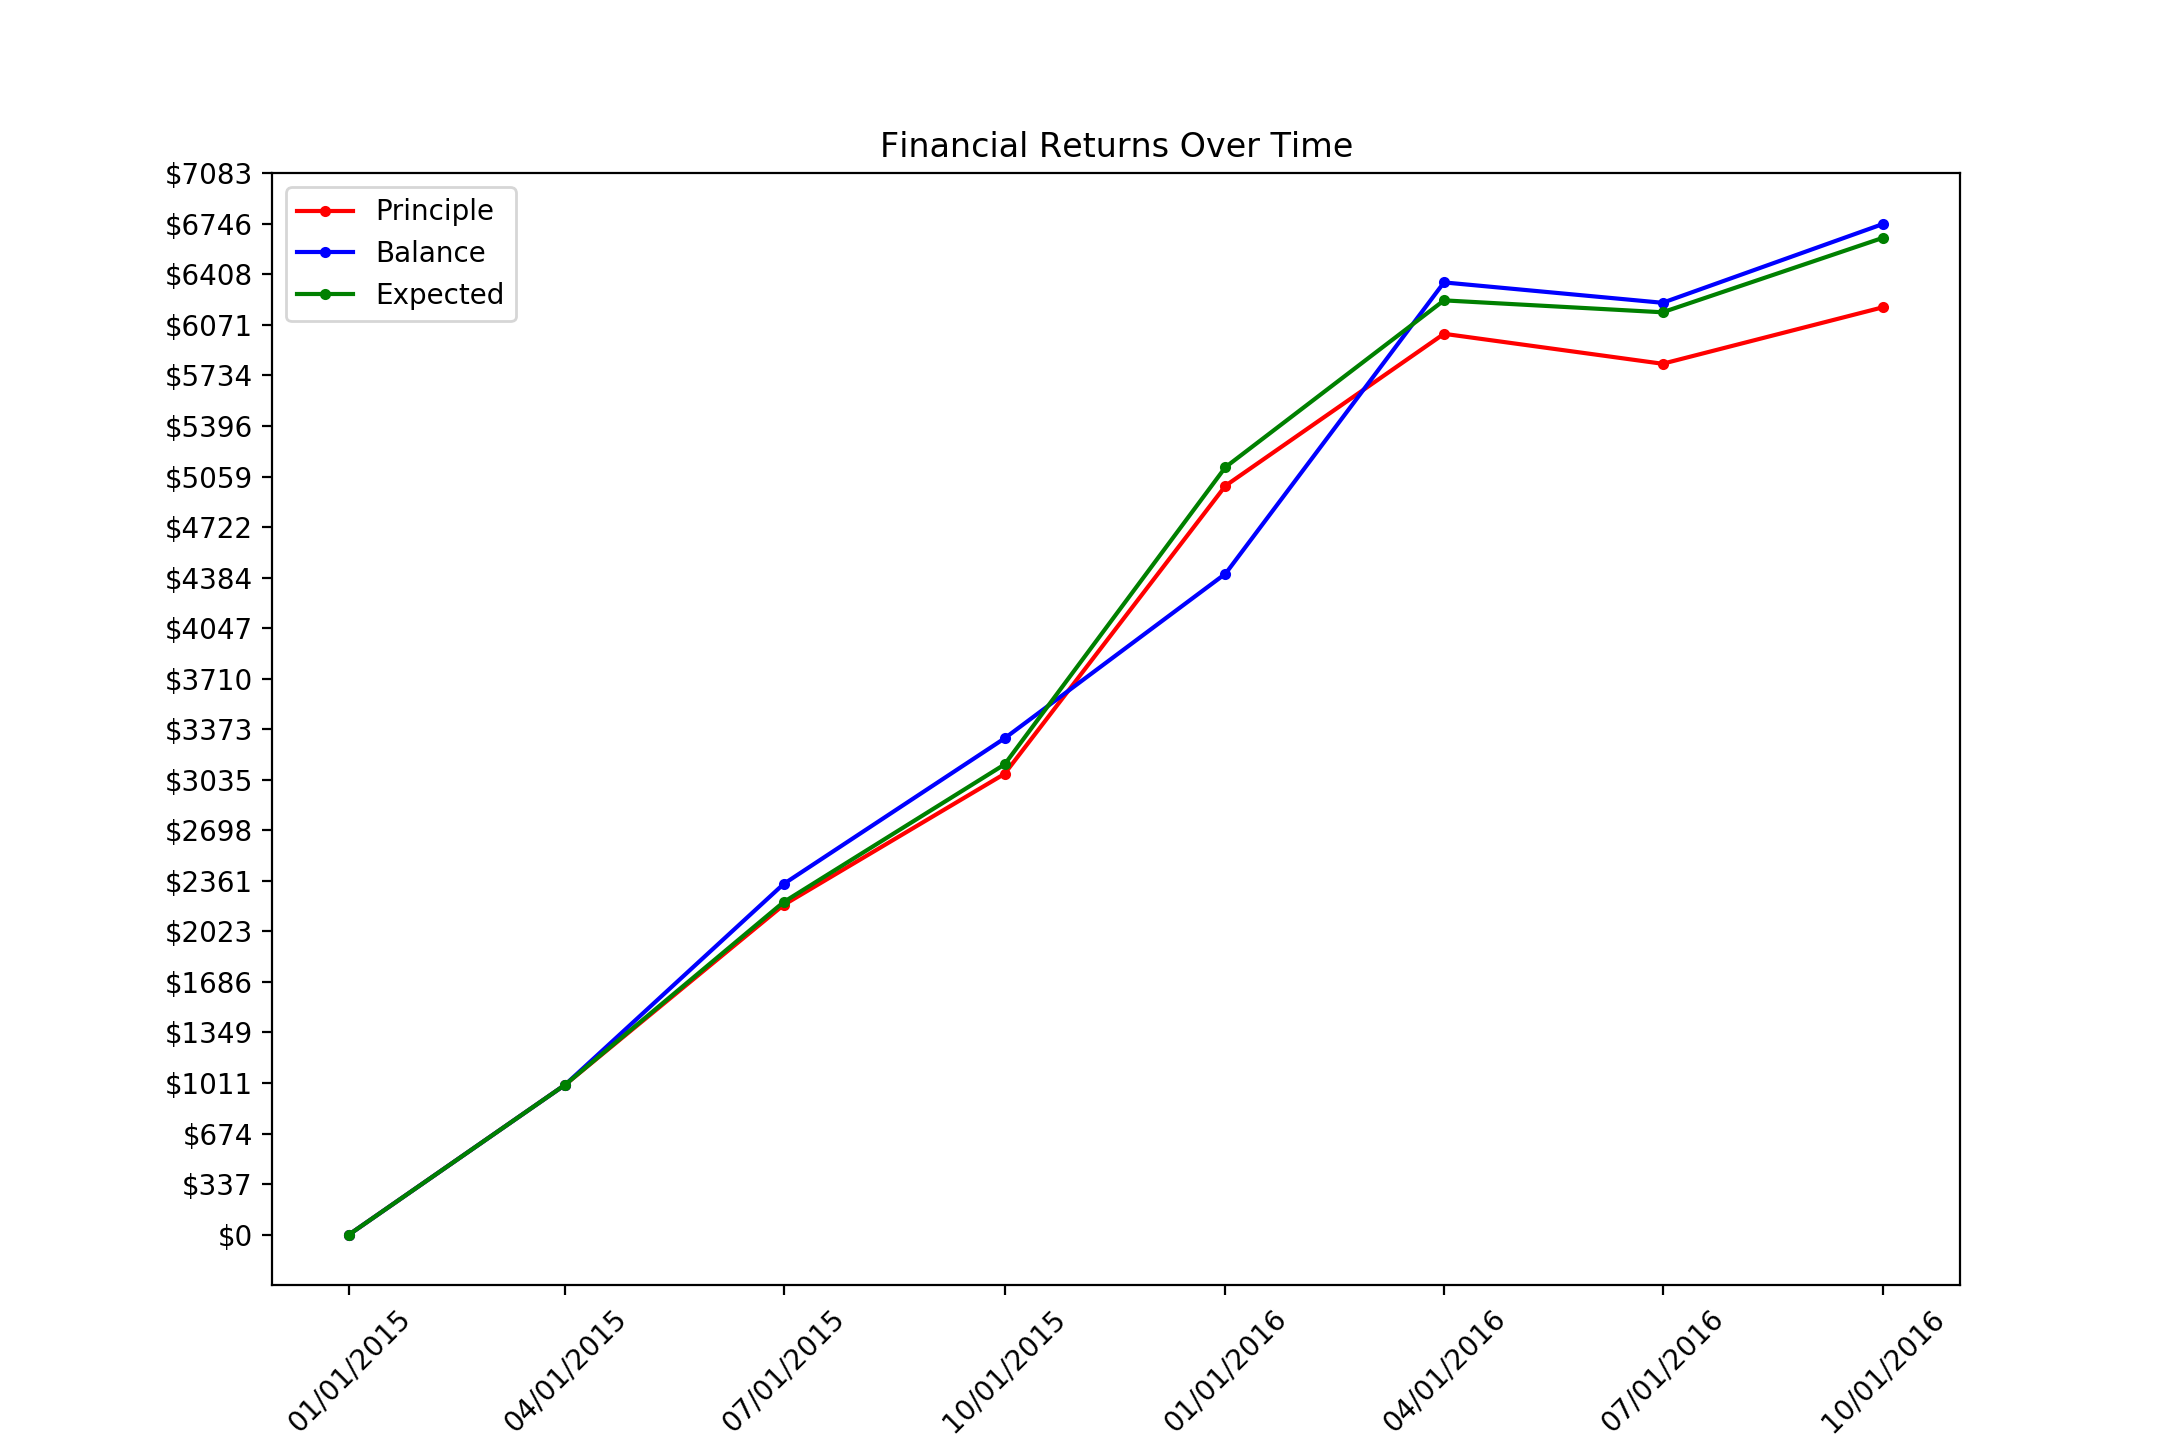
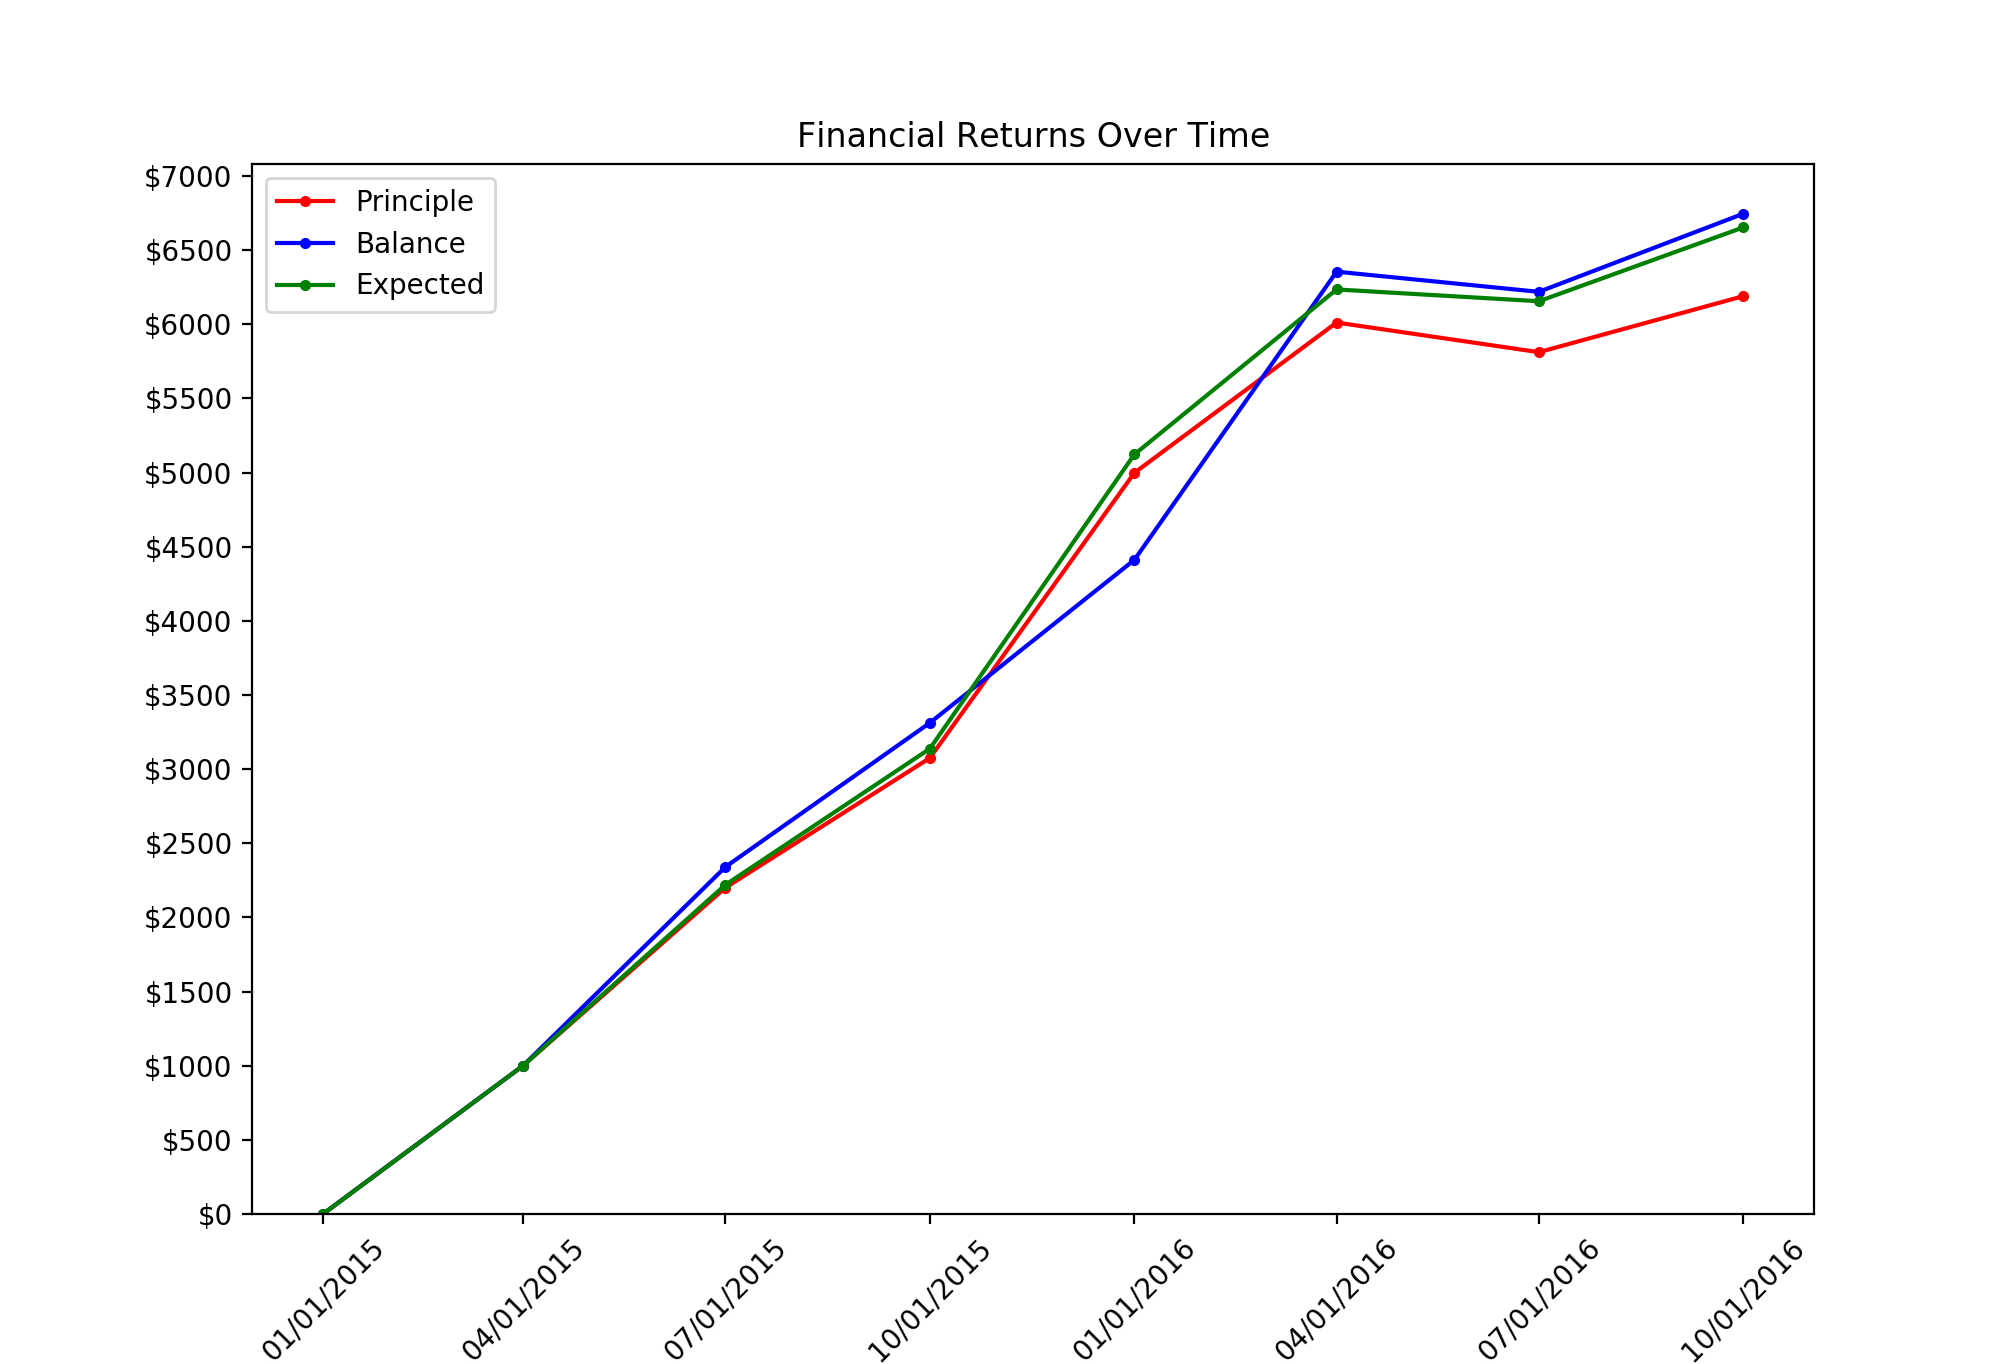
Make y axis use nice, round numbers (factors of 10)

diff --git a/returnsPlot.py b/returnsPlot.py
@@ -6,6 +6,7 @@ import matplotlib.dates as mdates
 
 from csvParsers import read_source_file
 from dateManipulation import *
+from utils import get_factor_of_ten
 
 def main(source_file):
     print("Reading source data...")
@@ -82,10 +83,15 @@ def createPlot(dates, ySeries, seriesNames, colors):
     plt.xticks(xTicks, rotation=45)
 
     y_max = max([value for series in ySeries for value in series])
-    y_step = y_max / 20
-    y_max_rounded = (int(y_max / y_step) + 2) * y_step
-    y_range = np.arange(y_max_rounded, step=y_step)
+    y_min_num_ticks = 10
+    y_max_num_ticks = 20
+    y_step = get_factor_of_ten(y_max / y_max_num_ticks)
+    # Ensure there is a good number of ticks
+    while((y_max / y_step) < y_min_num_ticks):
+        y_step = int(y_step / 2)
+    y_range = np.arange(y_max + y_step, step=y_step)
     plt.yticks(y_range, ['$%d' % (value) for value in y_range])
+    plt.ylim(ymin=0)
 
     plt.title('Financial Returns Over Time')
     plt.legend(loc='upper left')

diff --git a/stackedPlot.py b/stackedPlot.py
@@ -7,6 +7,7 @@ import matplotlib.dates as mdates
 from colors import color_scale
 from csvParsers import *
 from dateManipulation import *
+from utils import get_factor_of_ten
 
 def main(sources_file):
     print("Reading source data...")
@@ -127,10 +128,15 @@ def create_plot(dates, ySeries, seriesNames, colors):
     plt.xticks(xTicks, rotation=45)
 
     y_max = max(np.sum(ySeries, axis=0))
-    y_step = y_max / 20
-    y_max_rounded = (int(y_max / y_step) + 2) * y_step
-    y_range = np.arange(y_max_rounded, step=y_step)
+    y_min_num_ticks = 10
+    y_max_num_ticks = 20
+    y_step = get_factor_of_ten(y_max / y_max_num_ticks)
+    # Ensure there is a good number of ticks
+    while((y_max / y_step) < y_min_num_ticks):
+        y_step = int(y_step / 2)
+    y_range = np.arange(y_max + y_step, step=y_step)
     plt.yticks(y_range, ['$%d' % (value) for value in y_range])
+    plt.ylim(ymin=0)
 
     plt.title('Account Values Over Time')
     plt.legend(loc='upper left')

diff --git a/utils.py b/utils.py
@@ -1,0 +1,8 @@
+"""
+Makes a number a nice factor of 10
+"""
+def get_factor_of_ten(num):
+    i = 0
+    while(10**i < num):
+        i += 1
+    return 10**i
